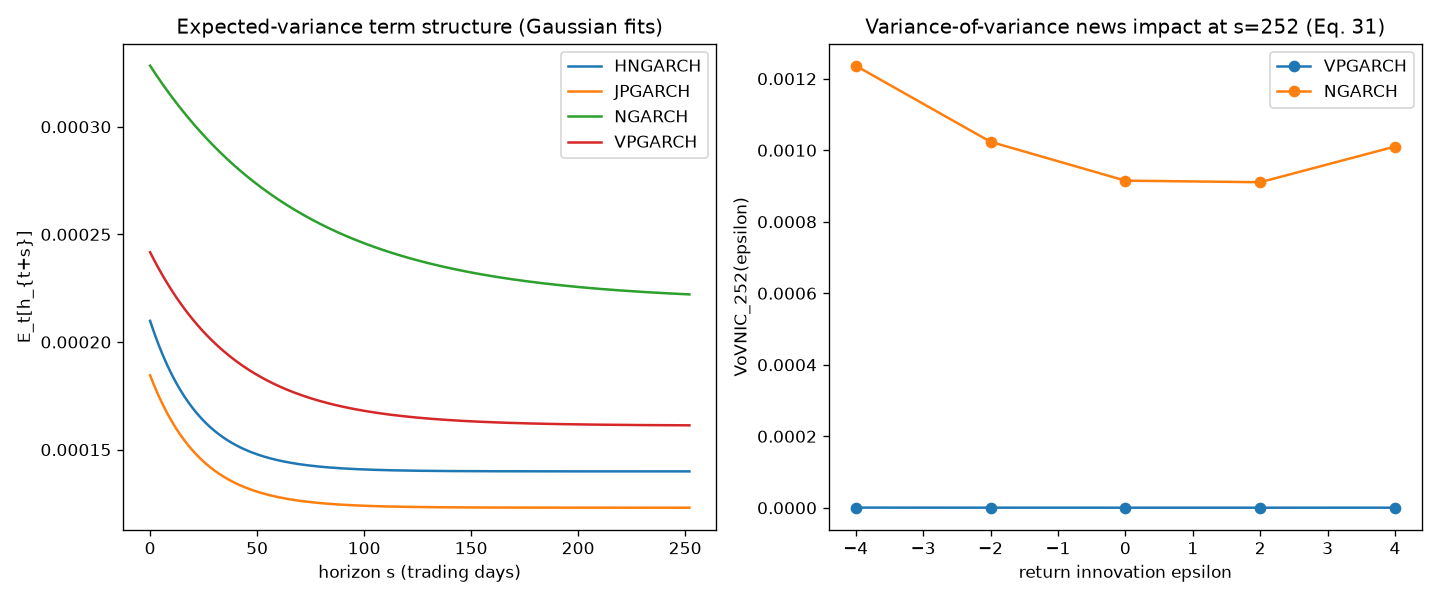
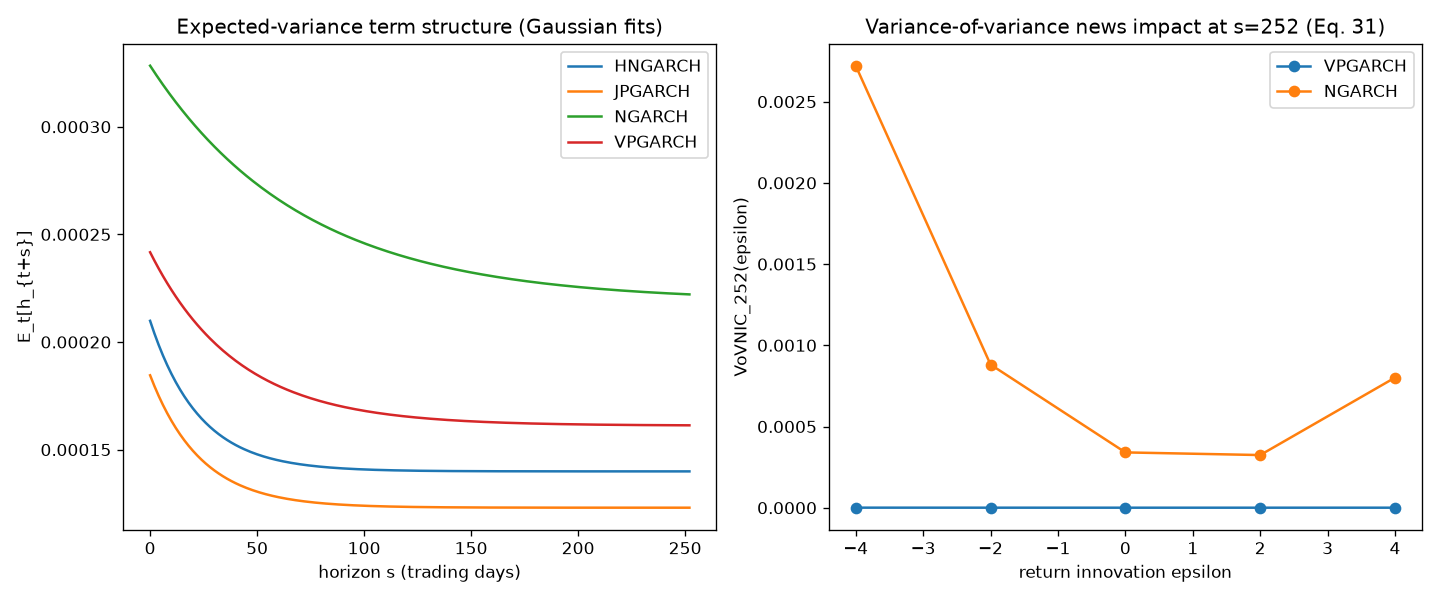
Fix d_coeffs: NGARCH uses quadratic psi_2 loading (Remark 1), not HNGARCH/JPGARCH branch
Sec. 2.2.1/Remark 1: NGARCH is the VPGARCH special case with a0=a1=0,
eta=-2*alpha*gamma, not the square-root-loading JPGARCH/HNGARCH branch.
The VoVNIC coefficients d0,d1,d2 (Sec. 2.3.1/4.2) must therefore use the
VPGARCH formula for NGARCH as well. Updates exp_6 VoVNIC results.

diff --git a/src/estimation.py b/src/estimation.py
@@ -313,11 +313,16 @@ def half_life(phi: float) -> float:
 def d_coeffs(model: str, p: dict, m4: float) -> tuple[float, float, float]:
     """d0, d1, d2 with d(x) = d0 + d1*x + d2*x^2 = Var[h_{t+1} | h_t=x] (Sec. 2.3.1/4.2).
 
-    VPGARCH: d0=eta^2*a0+(m4-1)*b0^2, d1=eta^2*a1+2*(m4-1)*b0*b1, d2=eta^2+(m4-1)*b1^2.
-    JPGARCH/HNGARCH/NGARCH: d0=(m4-1)*b0^2, d1=eta^2+2*(m4-1)*b0*b1, d2=(m4-1)*b1^2.
+    The split between d1 and d2 depends on the functional form of psi_2, not on the
+    model label: VPGARCH and NGARCH both use the quadratic loading psi_2(x) = eta*sqrt(a0+a1*x+x^2)
+    (NGARCH is the a0=a1=0 case, Remark 1), so Var[psi_2(x)*eps_2] = eta^2*(a0+a1*x+x^2) feeds
+    d0, d1 and d2. JPGARCH and HNGARCH use the square-root loading psi_2(x) = eta*sqrt(x), so
+    Var[psi_2(x)*eps_2] = eta^2*x feeds d1 only, with d2 driven solely by psi_3 = b0+b1*x.
+    VPGARCH/NGARCH: d0=eta^2*a0+(m4-1)*b0^2, d1=eta^2*a1+2*(m4-1)*b0*b1, d2=eta^2+(m4-1)*b1^2.
+    JPGARCH/HNGARCH:  d0=(m4-1)*b0^2,        d1=eta^2+2*(m4-1)*b0*b1,     d2=(m4-1)*b1^2.
     """
     eta, b0, b1 = p["eta"], p["b0"], p["b1"]
-    if model == "VPGARCH":
+    if model in ("VPGARCH", "NGARCH"):
         a0, a1 = p["a0"], p["a1"]
         return eta**2 * a0 + (m4 - 1) * b0**2, eta**2 * a1 + 2 * (m4 - 1) * b0 * b1, eta**2 + (m4 - 1) * b1**2
     return (m4 - 1) * b0**2, eta**2 + 2 * (m4 - 1) * b0 * b1, (m4 - 1) * b1**2

diff --git a/results/RESULTS.md b/results/RESULTS.md
@@ -212,11 +212,11 @@ to a daily rate) as `r_t`.
   paper's qualitative "30 vs 45" direction).
 - Variance-of-variance news-impact curves (`vovnic`, Eq. 31): at a one-year
   horizon (`s=252`) and shock `epsilon=-4`, VPGARCH's VoVNIC is
-  `5.48e-7` versus NGARCH's `1.24e-3`, i.e. VPGARCH's variance-of-variance
-  propagation is three orders of magnitude weaker than NGARCH's at these
-  estimated parameters — directionally consistent with the paper's claim
-  that VPGARCH has weaker VoVNIC propagation than NGARCH, though the
-  estimated ratio (`~2,250x`) is far larger than the paper's reported ratio
+  `5.48e-7` versus NGARCH's `2.72e-3`, i.e. VPGARCH's variance-of-variance
+  propagation is almost four orders of magnitude weaker than NGARCH's at
+  these estimated parameters — directionally consistent with the paper's
+  claim that VPGARCH has weaker VoVNIC propagation than NGARCH, though the
+  estimated ratio (`~4,960x`) is far larger than the paper's reported ratio
   (`~3x`, from `2.4` vs `7.2`); the estimated parameters driving this gap
   differ from the paper's (see "Deviations from the paper").
 - **Verdict:** log-likelihood ranking and leverage sign — **reproduced**;
